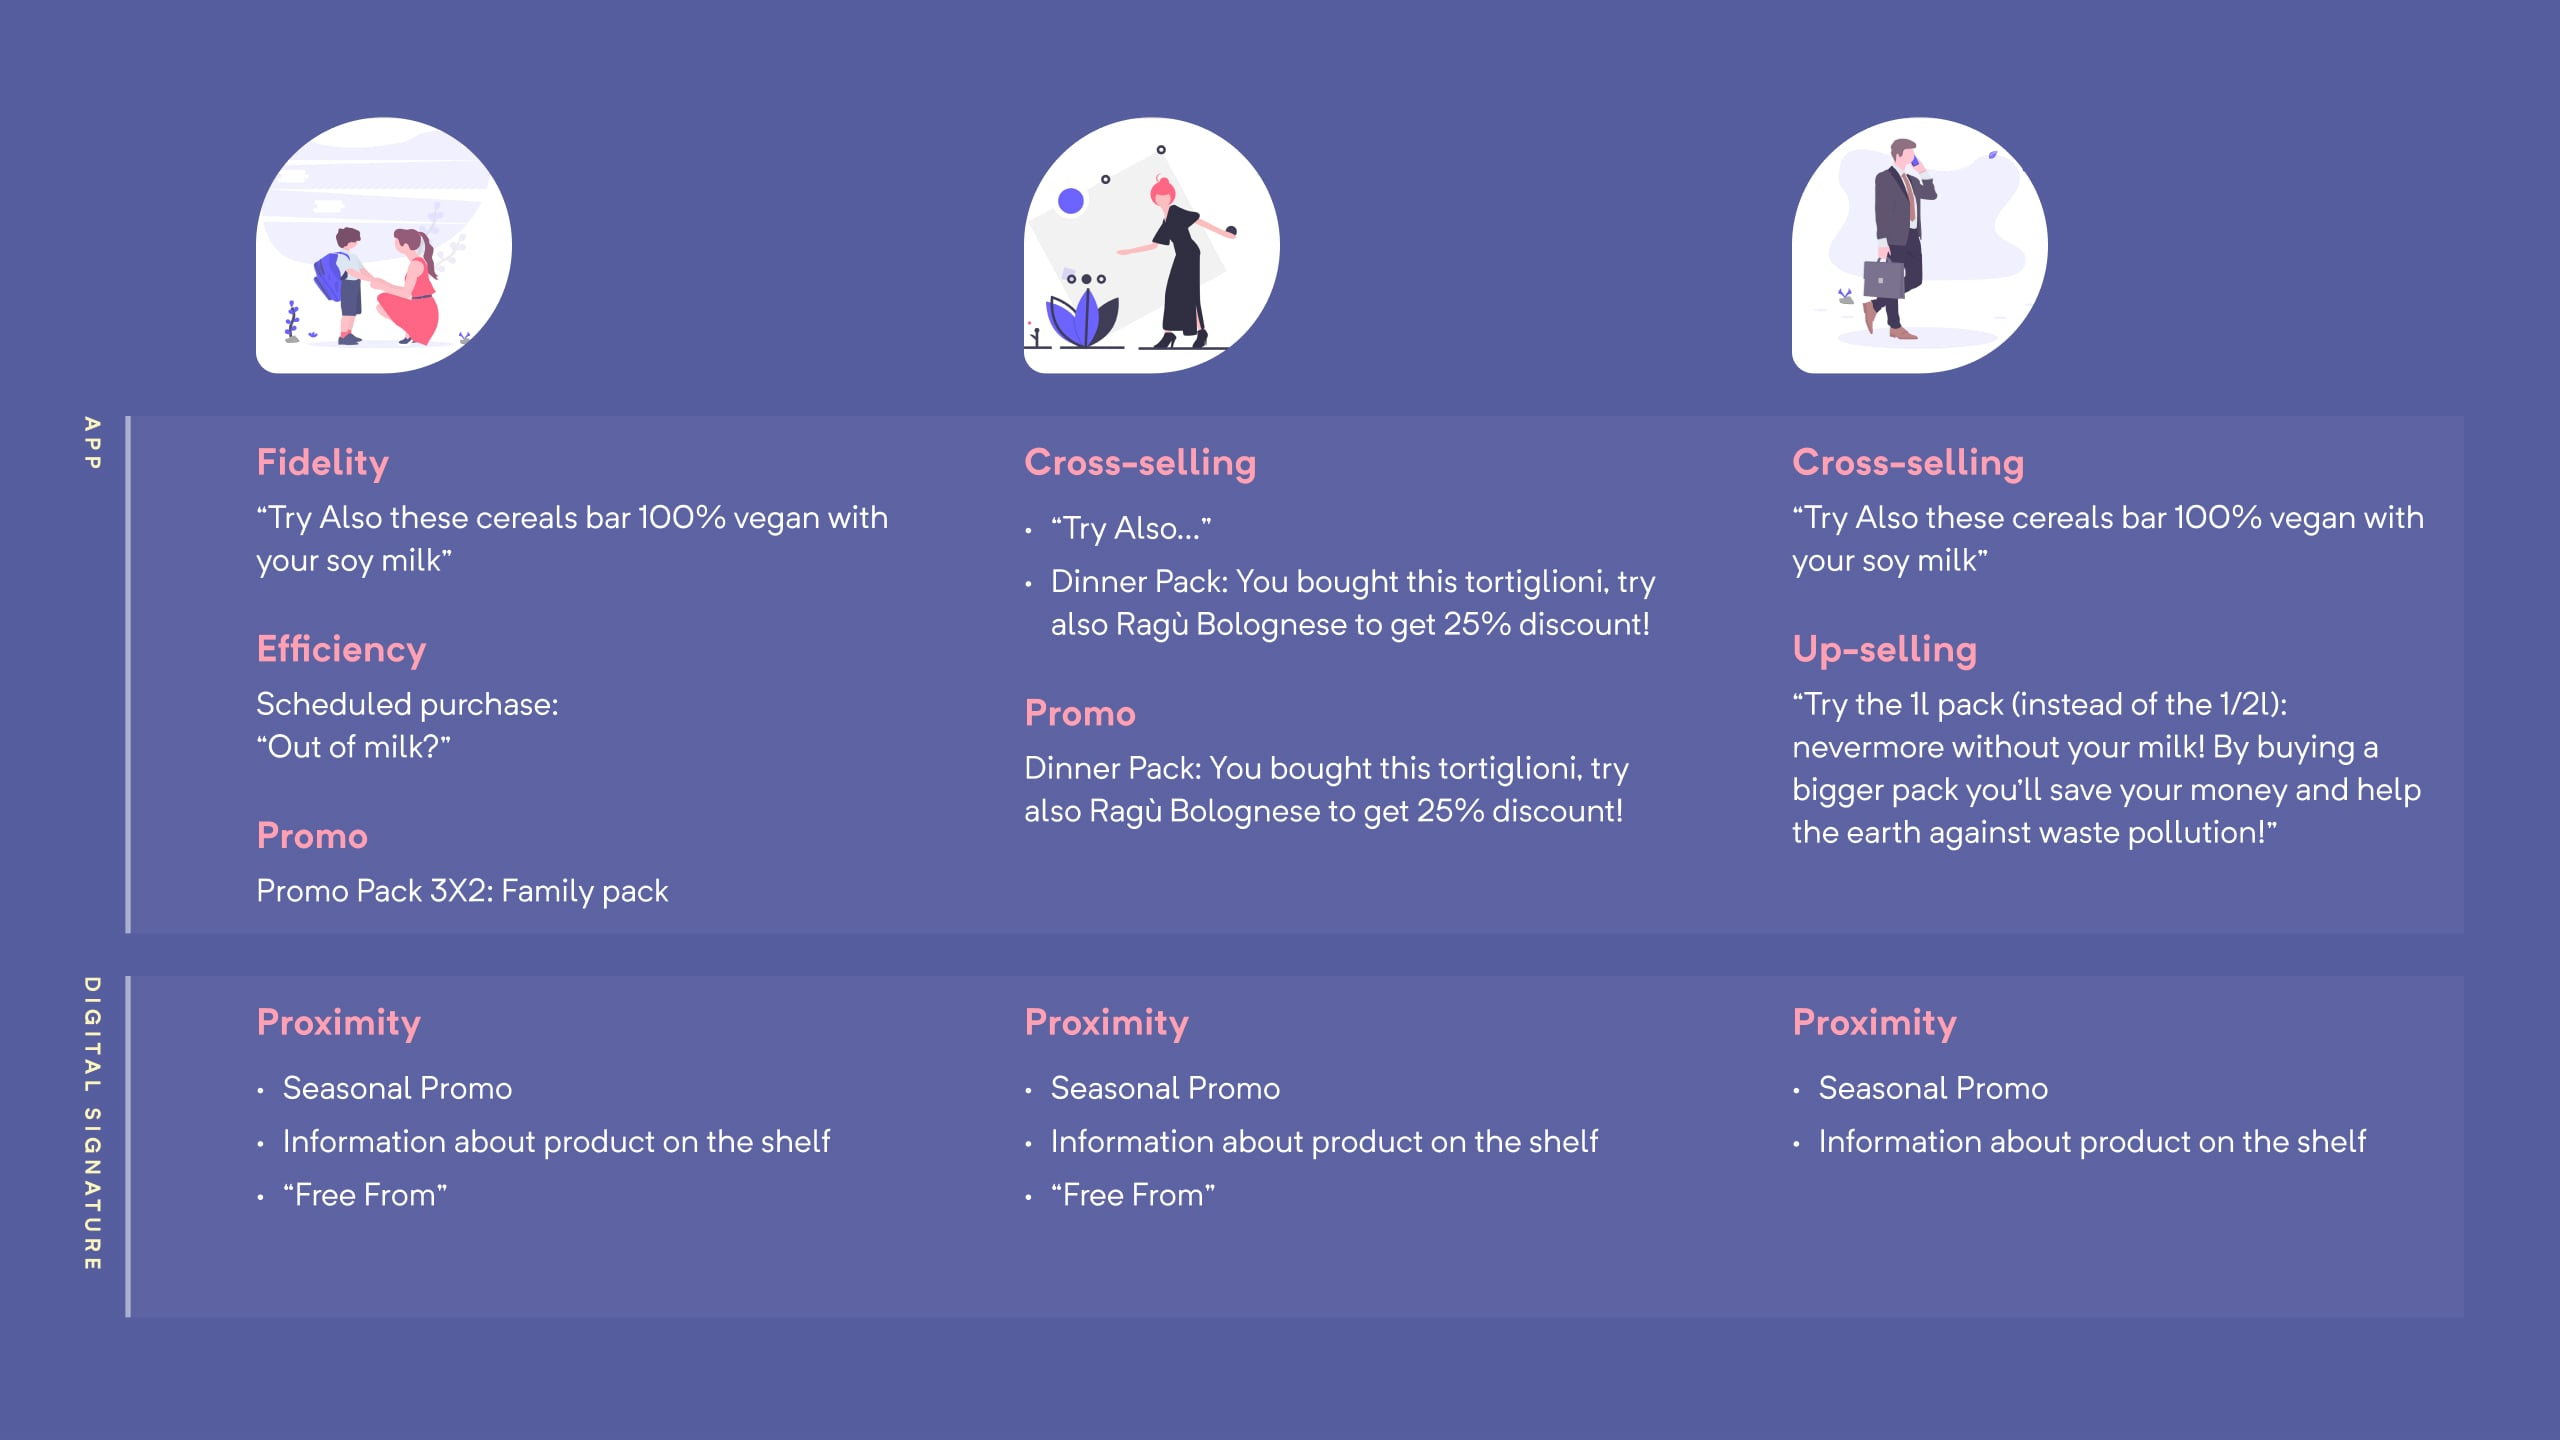
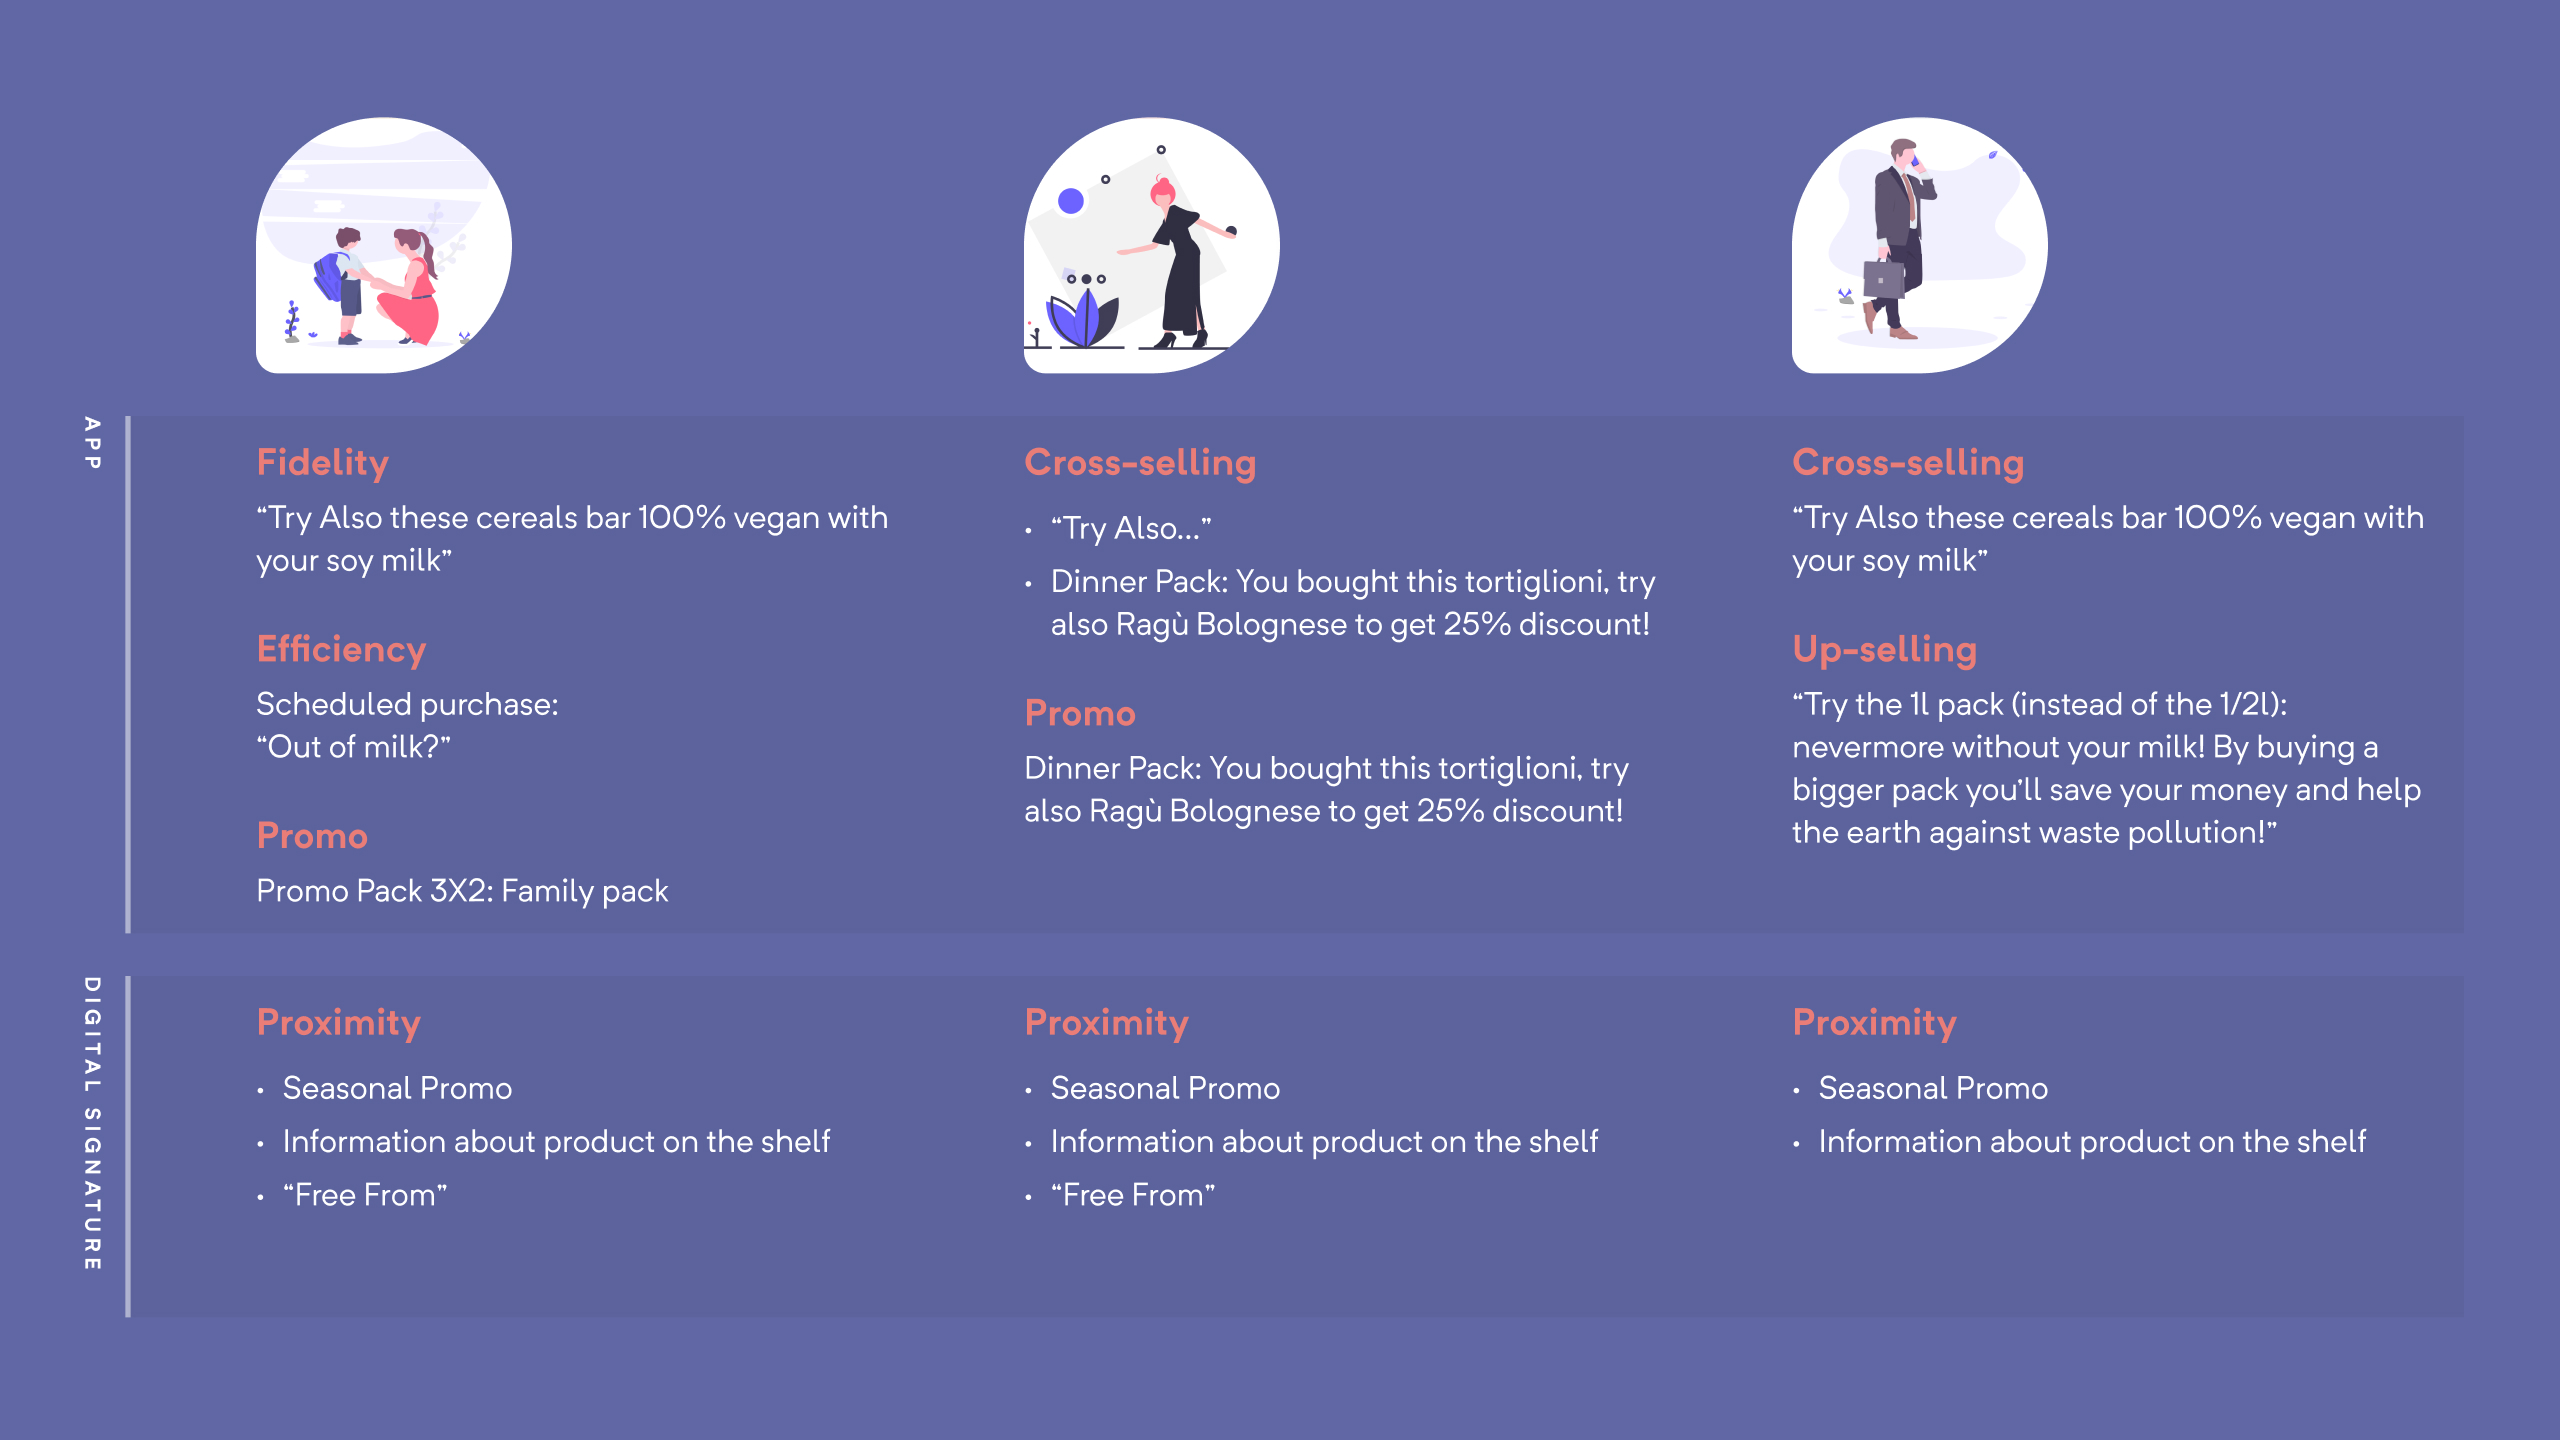
Updated Cefla project

diff --git a/src/work/2019/cefla-euroshop.md b/src/work/2019/cefla-euroshop.md
@@ -6,6 +6,9 @@ css:
   primary: '#fff'
   secondary: '#EA7D77'
   tertiary: '#EA7D77'
+  neutral1: 'rgba(255, 255, 255, 0.5);'
+  neutral2: 'rgba(255, 255, 255, 0.25);'
+  neutral3: 'rgba(255, 255, 255, 0.12);'
   neutral4: 'rgba(255, 255, 255, 0.06);'
   thumbnailHover: 'rgba(255, 255, 255, 0.12)'
   colorBackground: '#565D9F'
